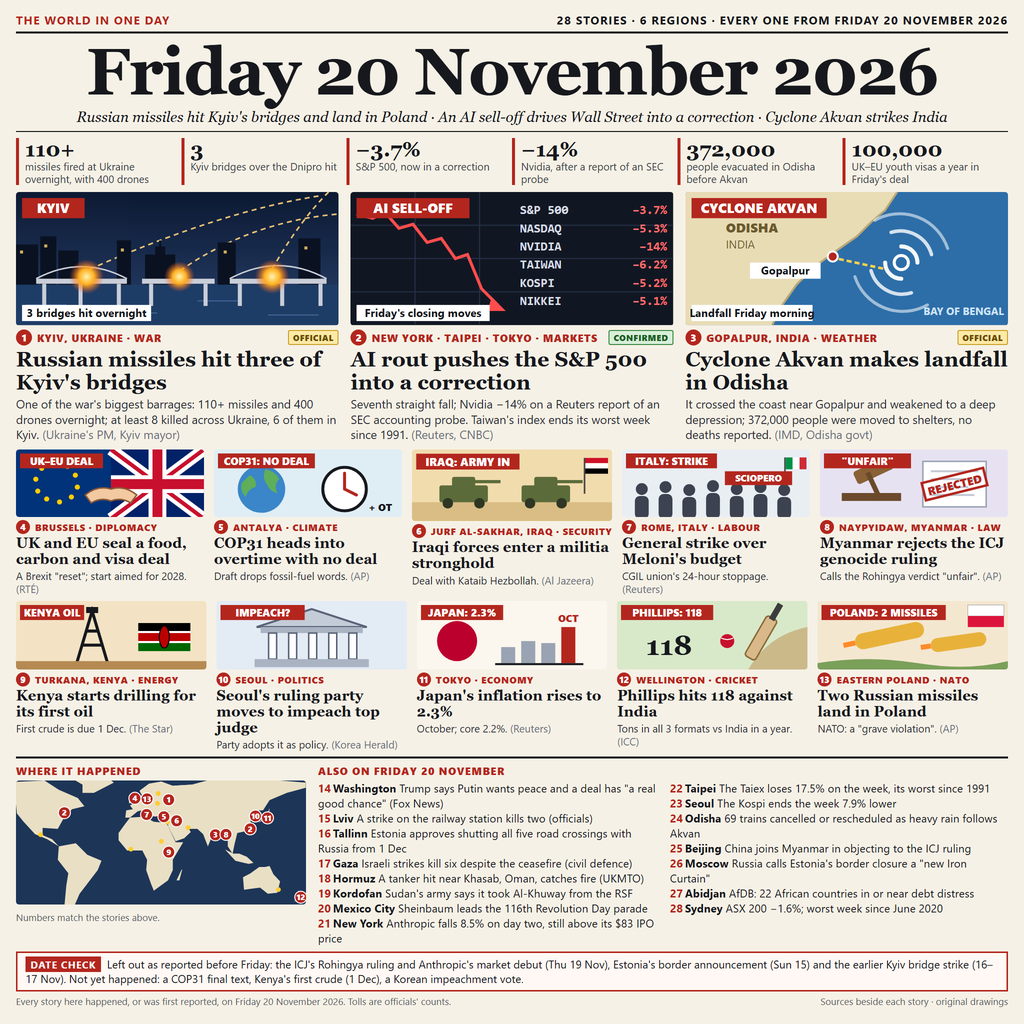
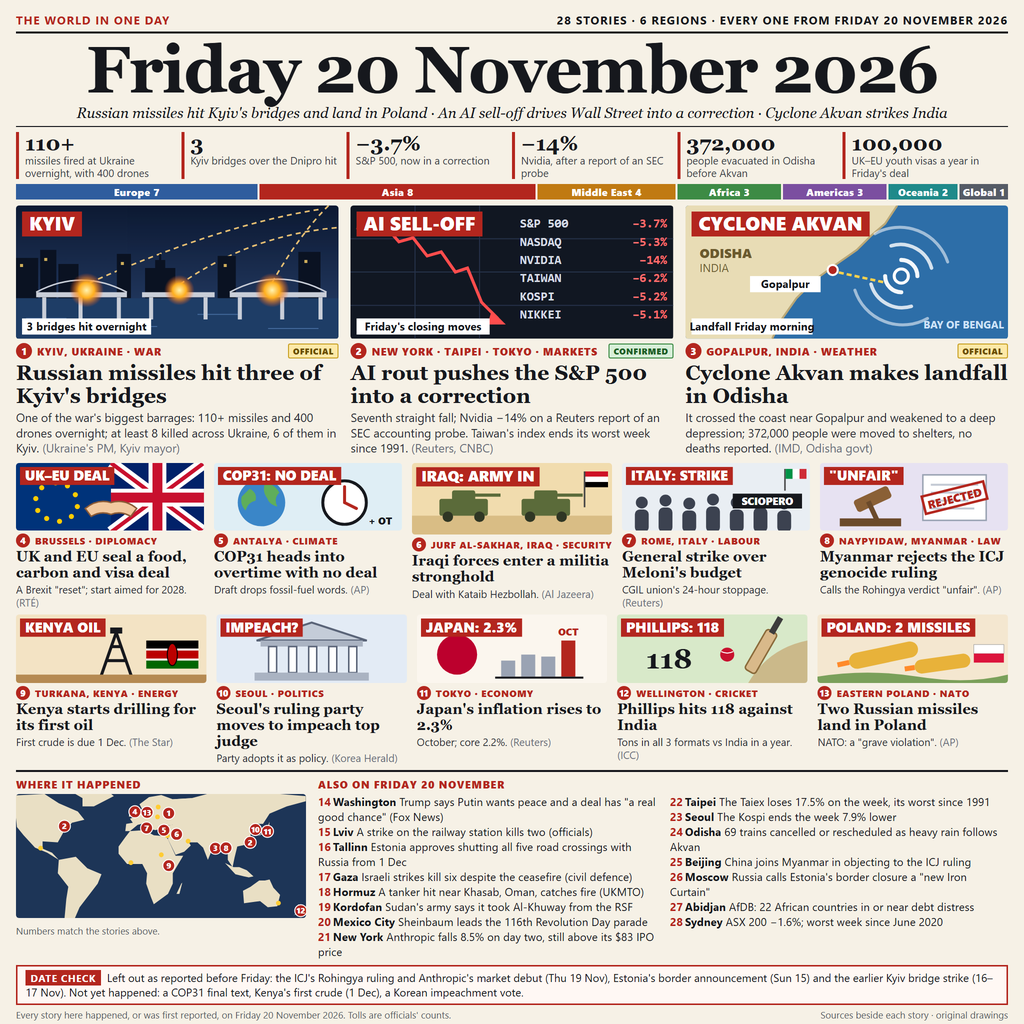
Bigger story labels, region strip, three more briefs (28 stories)

diff --git a/src/front.html b/src/front.html
@@ -16,14 +16,16 @@
     letter-spacing: .08em; text-transform: uppercase; border-bottom: 2px solid #16181d; padding-bottom: 4px; }
   .topbar .k { color: #b3261e; }
   h1 { font-family: Georgia, serif; font-weight: 700; font-size: 66px; line-height: 1; text-align: center;
-    letter-spacing: -1.5px; margin-top: 5px; white-space: nowrap; }
-  .deck { font-family: Georgia, serif; font-style: italic; font-size: 14.5px; text-align: center; margin: 4px 0 6px;
-    padding-bottom: 6px; border-bottom: 1px solid #16181d; }
+    letter-spacing: -1.5px; margin-top: 3px; white-space: nowrap; }
+  .deck { font-family: Georgia, serif; font-style: italic; font-size: 14.5px; text-align: center; margin: 2px 0 5px;
+    padding-bottom: 5px; border-bottom: 1px solid #16181d; }
   .nums { display: grid; grid-template-columns: repeat(6, 1fr); gap: 0; margin-bottom: 7px; }
   .nums div { border-left: 3px solid #b3261e; padding: 0 6px; }
   .nums b { display: block; font-family: Georgia, serif; font-size: 21px; line-height: 1.05; }
   .nums span { display: block; font-size: 10.5px; line-height: 1.2; color: #3b3f48; }
 
+  .regions { display: flex; gap: 2px; margin: -2px 0 6px; }
+  .regions span { color: #fff; font-size: 10px; font-weight: 800; text-align: center; padding: 1px 0; letter-spacing: .03em; }
   .leads { display: grid; grid-template-columns: repeat(3, 1fr); gap: 12px; margin-bottom: 7px; }
   .card svg { display: block; width: 100%; border-radius: 3px; }
   .kick { display: flex; align-items: center; gap: 5px; font-size: 10.5px; font-weight: 800; letter-spacing: .05em;
@@ -69,6 +71,11 @@
   <div><b>100,000</b><span>UK–EU youth visas a year in Friday's deal</span></div>
 </div>
 
+<div class="regions">
+  <span style="background:#2f5d9e;flex:7">Europe 7</span><span style="background:#b3261e;flex:8">Asia 8</span><span style="background:#c07a12;flex:4">Middle East 4</span>
+  <span style="background:#3d8b45;flex:3">Africa 3</span><span style="background:#7b4fa0;flex:3">Americas 3</span><span style="background:#1f8a8a;flex:2">Oceania 2</span><span style="background:#555b66;flex:1.4">Global 1</span>
+</div>
+
 <!-- ===================== THREE LEAD STORIES ===================== -->
 <div class="leads">
 
@@ -101,7 +108,7 @@
       </g>
       <g stroke="#c9ced8" stroke-width="1.5" fill="none"><path d="M20 86 Q 65 62 110 86"/><path d="M212 86 Q 260 60 308 86"/></g>
       <circle cx="70" cy="84" r="17" fill="url(#boom)"/><circle cx="162" cy="84" r="15" fill="url(#boom)"/><circle cx="254" cy="84" r="17" fill="url(#boom)"/>
-      <rect x="6" y="6" width="62" height="20" fill="#b3261e"/><text x="37" y="21" font-family="Segoe UI,Arial" font-weight="800" font-size="13.5" fill="#fff" text-anchor="middle">KYIV</text>
+      <text class="chip" x="6" y="6" data-s="19">KYIV</text>
       <rect x="6" y="112" width="128" height="16" fill="#fff"/><text x="70" y="124" font-family="Segoe UI,Arial" font-weight="700" font-size="11" fill="#16181d" text-anchor="middle">3 bridges hit overnight</text>
     </svg>
     <div class="kick"><span class="n">1</span>Kyiv, Ukraine · War<span class="tag t-off">OFFICIAL</span></div>
@@ -123,7 +130,7 @@
         <text x="168" y="94" fill="#d6dbe5">KOSPI</text><text x="314" y="94" fill="#ff6b6b" text-anchor="end">−5.2%</text>
         <text x="168" y="112" fill="#d6dbe5">NIKKEI</text><text x="314" y="112" fill="#ff6b6b" text-anchor="end">−5.1%</text>
       </g>
-      <rect x="6" y="6" width="112" height="20" fill="#b3261e"/><text x="62" y="21" font-family="Segoe UI,Arial" font-weight="800" font-size="13.5" fill="#fff" text-anchor="middle">AI SELL-OFF</text>
+      <text class="chip" x="6" y="6" data-s="19">AI SELL-OFF</text>
       <rect x="6" y="112" width="132" height="16" fill="#fff"/><text x="72" y="124" font-family="Segoe UI,Arial" font-weight="700" font-size="11" fill="#16181d" text-anchor="middle">Friday's closing moves</text>
     </svg>
     <div class="kick"><span class="n">2</span>New York · Taipei · Tokyo · Markets<span class="tag t-con">CONFIRMED</span></div>
@@ -137,8 +144,8 @@
       <!-- land: India's east coast -->
       <path d="M0 0 H210 L198 18 L184 30 L170 44 L150 58 L128 74 L110 92 L96 112 L86 132 H0 Z" fill="#e8dcb5"/>
       <path d="M210 0 L198 18 L184 30 L170 44 L150 58 L128 74 L110 92 L96 112 L86 132" fill="none" stroke="#b9a777" stroke-width="2"/>
-      <text x="40" y="40" font-family="Segoe UI,Arial" font-weight="800" font-size="13" fill="#6b5a2e">ODISHA</text>
-      <text x="40" y="56" font-family="Segoe UI,Arial" font-size="11" fill="#6b5a2e">INDIA</text>
+      <text x="14" y="52" font-family="Segoe UI,Arial" font-weight="800" font-size="13" fill="#6b5a2e">ODISHA</text>
+      <text x="14" y="66" font-family="Segoe UI,Arial" font-size="11" fill="#6b5a2e">INDIA</text>
       <text x="236" y="122" font-family="Segoe UI,Arial" font-weight="700" font-size="10.5" fill="#cfe3f7">BAY OF BENGAL</text>
       <!-- cyclone spiral -->
       <g transform="translate(214,70)" fill="none" stroke="#ffffff" stroke-linecap="round">
@@ -150,7 +157,7 @@
       <path d="M196 76 L150 66" stroke="#ffd24d" stroke-width="2.5" stroke-dasharray="5 3"/>
       <circle cx="146" cy="64" r="5" fill="#b3261e" stroke="#fff" stroke-width="2"/>
       <rect x="64" y="70" width="70" height="16" fill="#fff"/><text x="99" y="82" font-family="Segoe UI,Arial" font-weight="700" font-size="11" fill="#16181d" text-anchor="middle">Gopalpur</text>
-      <rect x="6" y="6" width="134" height="20" fill="#b3261e"/><text x="73" y="21" font-family="Segoe UI,Arial" font-weight="800" font-size="13.5" fill="#fff" text-anchor="middle">CYCLONE AKVAN</text>
+      <text class="chip" x="6" y="6" data-s="19">CYCLONE AKVAN</text>
       <rect x="6" y="112" width="120" height="16" fill="#fff"/><text x="66" y="124" font-family="Segoe UI,Arial" font-weight="700" font-size="11" fill="#16181d" text-anchor="middle">Landfall Friday morning</text>
     </svg>
     <div class="kick"><span class="n">3</span>Gopalpur, India · Weather<span class="tag t-off">OFFICIAL</span></div>
@@ -165,10 +172,10 @@
   <div class="card small">
     <svg viewBox="0 0 190 68">
       <rect width="190" height="70" fill="#00337a"/>
-      <g fill="#ffcc00"><circle cx="40" cy="14" r="2.6"/><circle cx="52" cy="17" r="2.6"/><circle cx="60" cy="26" r="2.6"/><circle cx="62" cy="38" r="2.6"/><circle cx="56" cy="48" r="2.6"/><circle cx="44" cy="53" r="2.6"/><circle cx="31" cy="50" r="2.6"/><circle cx="22" cy="42" r="2.6"/><circle cx="20" cy="30" r="2.6"/><circle cx="26" cy="19" r="2.6"/></g>
+      <g fill="#ffcc00" transform="translate(0,6)"><circle cx="40" cy="14" r="2.6"/><circle cx="52" cy="17" r="2.6"/><circle cx="60" cy="26" r="2.6"/><circle cx="62" cy="38" r="2.6"/><circle cx="56" cy="48" r="2.6"/><circle cx="44" cy="53" r="2.6"/><circle cx="31" cy="50" r="2.6"/><circle cx="22" cy="42" r="2.6"/><circle cx="20" cy="30" r="2.6"/><circle cx="26" cy="19" r="2.6"/></g>
       <g transform="translate(96,0)"><rect width="94" height="70" fill="#012169"/><path d="M0 0 L94 70 M94 0 L0 70" stroke="#fff" stroke-width="12"/><path d="M0 0 L94 70 M94 0 L0 70" stroke="#c8102e" stroke-width="4"/><path d="M47 0 V70 M0 35 H94" stroke="#fff" stroke-width="18"/><path d="M47 0 V70 M0 35 H94" stroke="#c8102e" stroke-width="10"/></g>
       <path d="M70 46 q12 -10 26 -6 q14 -4 26 6 l-6 8 q-10 -6 -20 -2 q-10 -4 -20 2z" fill="#f2c9a0" stroke="#8a5a36" stroke-width="1.5"/>
-      <rect x="4" y="4" width="84" height="15" fill="#b3261e"/><text x="46" y="15.5" font-family="Segoe UI,Arial" font-weight="800" font-size="10.5" fill="#fff" text-anchor="middle">UK–EU DEAL</text>
+      <text class="chip" x="4" y="4" data-s="14">UK–EU DEAL</text>
     </svg>
     <div class="kick"><span class="n">4</span>Brussels · Diplomacy</div>
     <h3>UK and EU seal a food, carbon and visa deal</h3>
@@ -181,7 +188,7 @@
       <circle cx="48" cy="40" r="24" fill="#3a86c8"/><path d="M36 26 q8 4 6 12 q-8 2 -10 10 q-6 -6 -4 -14z M52 20 q10 2 14 10 q-6 6 -2 14 q-8 -2 -10 -8 q-6 -8 -2 -16z" fill="#5fae5a"/>
       <circle cx="132" cy="40" r="22" fill="#fff" stroke="#16181d" stroke-width="3"/><path d="M132 40 V24 M132 40 L144 46" stroke="#b3261e" stroke-width="3" stroke-linecap="round"/>
       <text x="168" y="62" font-family="Segoe UI,Arial" font-weight="800" font-size="10" fill="#16181d" text-anchor="middle">+ OT</text>
-      <rect x="4" y="4" width="98" height="15" fill="#b3261e"/><text x="53" y="15.5" font-family="Segoe UI,Arial" font-weight="800" font-size="10.5" fill="#fff" text-anchor="middle">COP31: NO DEAL</text>
+      <text class="chip" x="4" y="4" data-s="14">COP31: NO DEAL</text>
     </svg>
     <div class="kick"><span class="n">5</span>Antalya · Climate</div>
     <h3>COP31 heads into overtime with no deal</h3>
@@ -195,7 +202,7 @@
       <rect x="104" y="34" width="46" height="16" rx="2"/><rect x="116" y="26" width="22" height="10" rx="2"/><rect x="136" y="29" width="26" height="3"/></g>
       <g fill="#2f3624"><circle cx="34" cy="51" r="5"/><circle cx="64" cy="51" r="5"/><circle cx="112" cy="51" r="5"/><circle cx="142" cy="51" r="5"/></g>
       <g transform="translate(164,8)"><rect width="22" height="5" fill="#ce1126"/><rect y="5" width="22" height="5" fill="#fff"/><rect y="10" width="22" height="5" fill="#000"/><rect x="-1" y="0" width="1.5" height="34" fill="#444"/></g>
-      <rect x="4" y="4" width="98" height="15" fill="#b3261e"/><text x="53" y="15.5" font-family="Segoe UI,Arial" font-weight="800" font-size="10.5" fill="#fff" text-anchor="middle">IRAQ: ARMY IN</text>
+      <text class="chip" x="4" y="4" data-s="14">IRAQ: ARMY IN</text>
     </svg>
     <div class="kick"><span class="n">6</span>Jurf al-Sakhar, Iraq · Security</div>
     <h3>Iraqi forces enter a militia stronghold</h3>
@@ -214,9 +221,9 @@
         <circle cx="140" cy="38" r="6"/><rect x="133" y="45" width="14" height="25" rx="5"/>
         <circle cx="164" cy="41" r="6"/><rect x="157" y="48" width="14" height="22" rx="5"/>
       </g>
-      <g><rect x="164" y="8" width="1.5" height="30" fill="#444"/><rect x="165.5" y="8" width="7" height="12" fill="#009246"/><rect x="172.5" y="8" width="7" height="12" fill="#fff"/><rect x="179.5" y="8" width="7" height="12" fill="#ce2b37"/></g>
-      <rect x="104" y="22" width="68" height="14" fill="#b3261e"/><text x="138" y="32.5" font-family="Segoe UI,Arial" font-weight="800" font-size="9.5" fill="#fff" text-anchor="middle">SCIOPERO</text>
-      <rect x="4" y="4" width="92" height="15" fill="#b3261e"/><text x="50" y="15.5" font-family="Segoe UI,Arial" font-weight="800" font-size="10.5" fill="#fff" text-anchor="middle">ITALY: STRIKE</text>
+      <g><rect x="164" y="6" width="1.5" height="22" fill="#444"/><rect x="165.5" y="6" width="7" height="10" fill="#009246"/><rect x="172.5" y="6" width="7" height="10" fill="#fff"/><rect x="179.5" y="6" width="7" height="10" fill="#ce2b37"/></g>
+      <rect x="112" y="31" width="70" height="15" fill="#16181d"/><text x="147" y="42.5" font-family="Segoe UI,Arial" font-weight="800" font-size="10.5" fill="#fff" text-anchor="middle">SCIOPERO</text>
+      <text class="chip" x="4" y="4" data-s="14">ITALY: STRIKE</text>
     </svg>
     <div class="kick"><span class="n">7</span>Rome, Italy · Labour</div>
     <h3>General strike over Meloni's budget</h3>
@@ -226,11 +233,11 @@
   <div class="card small">
     <svg viewBox="0 0 190 68">
       <rect width="190" height="70" fill="#e7e2f2"/>
-      <rect x="22" y="44" width="60" height="8" fill="#6b4a2b"/><rect x="34" y="14" width="40" height="14" rx="3" fill="#8a6036" transform="rotate(-25 54 21)"/><rect x="52" y="22" width="5" height="30" fill="#6b4a2b" transform="rotate(-25 54 37)"/>
+      <rect x="20" y="56" width="62" height="8" fill="#6b4a2b"/><rect x="34" y="30" width="38" height="13" rx="3" fill="#8a6036" transform="rotate(-25 53 36)"/><rect x="51" y="38" width="5" height="22" fill="#6b4a2b" transform="rotate(-25 53 49)"/>
       <rect x="104" y="12" width="64" height="46" fill="#fff" stroke="#9aa3b3" stroke-width="1.5"/>
       <g stroke="#c3c9d4" stroke-width="2"><path d="M112 22 H160 M112 30 H160 M112 38 H150 M112 46 H156"/></g>
       <g transform="rotate(-14 136 35)"><rect x="104" y="26" width="64" height="18" fill="none" stroke="#b3261e" stroke-width="2.5"/><text x="136" y="40" font-family="Segoe UI,Arial" font-weight="900" font-size="11.5" fill="#b3261e" text-anchor="middle">REJECTED</text></g>
-      <rect x="4" y="4" width="88" height="15" fill="#b3261e"/><text x="48" y="15.5" font-family="Segoe UI,Arial" font-weight="800" font-size="10.5" fill="#fff" text-anchor="middle">"UNFAIR"</text>
+      <text class="chip" x="4" y="4" data-s="14">"UNFAIR"</text>
     </svg>
     <div class="kick"><span class="n">8</span>Naypyidaw, Myanmar · Law</div>
     <h3>Myanmar rejects the ICJ genocide ruling</h3>
@@ -244,11 +251,11 @@
     <svg viewBox="0 0 190 68">
       <rect width="190" height="70" fill="#f3e3c4"/>
       
-      <path d="M60 64 L76 10 L92 64 Z M66 44 H86 M70 30 H82" fill="none" stroke="#16181d" stroke-width="3"/>
-      <rect x="70" y="6" width="12" height="6" fill="#16181d"/>
+      <path d="M84 64 L100 18 L116 64 Z M90 46 H110 M94 32 H106" fill="none" stroke="#16181d" stroke-width="3"/>
+      <rect x="94" y="13" width="12" height="6" fill="#16181d"/>
       <rect y="60" width="190" height="10" fill="#b58a52"/>
-      <g transform="translate(122,22)"><rect width="52" height="8" fill="#000"/><rect y="8" width="52" height="2" fill="#fff"/><rect y="10" width="52" height="8" fill="#bb0000"/><rect y="18" width="52" height="2" fill="#fff"/><rect y="20" width="52" height="8" fill="#006600"/><ellipse cx="26" cy="14" rx="5" ry="11" fill="#bb0000" stroke="#000" stroke-width="1"/></g>
-      <rect x="4" y="4" width="64" height="15" fill="#b3261e"/><text x="36" y="15.5" font-family="Segoe UI,Arial" font-weight="800" font-size="10.5" fill="#fff" text-anchor="middle">KENYA OIL</text>
+      <g transform="translate(130,26)"><rect width="52" height="8" fill="#000"/><rect y="8" width="52" height="2" fill="#fff"/><rect y="10" width="52" height="8" fill="#bb0000"/><rect y="18" width="52" height="2" fill="#fff"/><rect y="20" width="52" height="8" fill="#006600"/><ellipse cx="26" cy="14" rx="5" ry="11" fill="#bb0000" stroke="#000" stroke-width="1"/></g>
+      <text class="chip" x="4" y="4" data-s="14">KENYA OIL</text>
     </svg>
     <div class="kick"><span class="n">9</span>Turkana, Kenya · Energy</div>
     <h3>Kenya starts drilling for its first oil</h3>
@@ -262,7 +269,7 @@
       <rect x="44" y="26" width="102" height="6" fill="#aab3c2"/>
       <g fill="#fff" stroke="#5a6478" stroke-width="1.5"><rect x="52" y="32" width="8" height="26"/><rect x="72" y="32" width="8" height="26"/><rect x="92" y="32" width="8" height="26"/><rect x="112" y="32" width="8" height="26"/><rect x="132" y="32" width="8" height="26"/></g>
       <rect x="38" y="58" width="114" height="8" fill="#aab3c2"/>
-      <rect x="4" y="4" width="84" height="15" fill="#b3261e"/><text x="46" y="15.5" font-family="Segoe UI,Arial" font-weight="800" font-size="10.5" fill="#fff" text-anchor="middle">IMPEACH?</text>
+      <text class="chip" x="4" y="4" data-s="14">IMPEACH?</text>
     </svg>
     <div class="kick"><span class="n">10</span>Seoul · Politics</div>
     <h3>Seoul's ruling party moves to impeach top judge</h3>
@@ -277,7 +284,7 @@
       <rect x="144" y="26" width="14" height="36" fill="#b3261e"/>
       <text x="151" y="21" font-family="Segoe UI,Arial" font-weight="800" font-size="10" fill="#b3261e" text-anchor="middle">OCT</text>
       <rect x="78" y="62" width="88" height="2" fill="#16181d"/>
-      <rect x="4" y="4" width="82" height="15" fill="#b3261e"/><text x="45" y="15.5" font-family="Segoe UI,Arial" font-weight="800" font-size="10.5" fill="#fff" text-anchor="middle">JAPAN: 2.3%</text>
+      <text class="chip" x="4" y="4" data-s="14">JAPAN: 2.3%</text>
     </svg>
     <div class="kick"><span class="n">11</span>Tokyo · Economy</div>
     <h3>Japan's inflation rises to 2.3%</h3>
@@ -291,7 +298,7 @@
       <g transform="translate(150,14) rotate(30)"><rect x="0" y="0" width="12" height="46" rx="3" fill="#d9b98a" stroke="#8a6a3a" stroke-width="1.5"/><rect x="3" y="-16" width="6" height="18" fill="#3c3c3c"/></g>
       <circle cx="110" cy="40" r="7" fill="#c8102e"/><path d="M104 37 q6 3 12 0" stroke="#fff" stroke-width="1" fill="none"/>
       <text x="52" y="54" font-family="Georgia" font-weight="700" font-size="28" fill="#16181d" text-anchor="middle">118</text>
-      <rect x="4" y="4" width="92" height="15" fill="#b3261e"/><text x="50" y="15.5" font-family="Segoe UI,Arial" font-weight="800" font-size="10.5" fill="#fff" text-anchor="middle">PHILLIPS: 118</text>
+      <text class="chip" x="4" y="4" data-s="14">PHILLIPS: 118</text>
     </svg>
     <div class="kick"><span class="n">12</span>Wellington · Cricket</div>
     <h3>Phillips hits 118 against India</h3>
@@ -301,10 +308,10 @@
   <div class="card small">
     <svg viewBox="0 0 190 68">
       <rect width="190" height="70" fill="#f4e7d0"/>
-      <rect x="150" y="4" width="36" height="11" fill="#fff" stroke="#999" stroke-width=".5"/><rect x="150" y="15" width="36" height="11" fill="#dc143c"/>
-      <g transform="translate(36,34) rotate(-12)"><rect width="70" height="16" rx="8" fill="#e8b23a"/><rect x="-14" y="8" width="0" height="0"/><path d="M0 8 h-12" stroke="#ff8a2a" stroke-width="5"/></g>
-      <g transform="translate(112,38) rotate(-8)"><rect width="56" height="14" rx="7" fill="#e8b23a"/><path d="M0 7 h-10" stroke="#ff8a2a" stroke-width="5"/></g>
-      <rect x="4" y="4" width="124" height="15" fill="#b3261e"/><text x="66" y="15.5" font-family="Segoe UI,Arial" font-weight="800" font-size="10.5" fill="#fff" text-anchor="middle">POLAND: 2 MISSILES</text>
+      <rect x="156" y="30" width="30" height="9" fill="#fff" stroke="#999" stroke-width=".5"/><rect x="156" y="39" width="30" height="9" fill="#dc143c"/>
+      <g transform="translate(30,40) rotate(-12)"><rect width="70" height="16" rx="8" fill="#e8b23a"/><rect x="-14" y="8" width="0" height="0"/><path d="M0 8 h-12" stroke="#ff8a2a" stroke-width="5"/></g>
+      <g transform="translate(96,46) rotate(-8)"><rect width="56" height="14" rx="7" fill="#e8b23a"/><path d="M0 7 h-10" stroke="#ff8a2a" stroke-width="5"/></g>
+      <text class="chip" x="4" y="4" data-s="14">POLAND: 2 MISSILES</text>
       <path d="M0 62 Q 50 54 100 62 T 190 60 V70 H0Z" fill="#7aa05a"/>
     </svg>
     <div class="kick"><span class="n">13</span>Eastern Poland · NATO</div>
@@ -368,6 +375,17 @@
     [[172,-35],[178,-38],[174,-41],[167,-46],[171,-44]]
   ];
   const NS = 'http://www.w3.org/2000/svg';
+  // Story labels: big white capitals on a red chip sized to the text, so they read at thumbnail size.
+  for (const t of document.querySelectorAll('text.chip')) {
+    const x = +t.getAttribute('x'), y = +t.getAttribute('y'), fs = +t.dataset.s, pad = Math.round(fs * 0.35);
+    Object.assign(t.style, { fontFamily: 'Segoe UI, Arial', fontWeight: 800, fontSize: fs + 'px', fill: '#fff' });
+    t.setAttribute('x', x + pad); t.setAttribute('y', y + fs * 0.98);
+    const w = t.getComputedTextLength();
+    const r = document.createElementNS(NS, 'rect');
+    r.setAttribute('x', x); r.setAttribute('y', y); r.setAttribute('width', w + 2 * pad); r.setAttribute('height', fs * 1.3);
+    r.setAttribute('fill', '#b3261e');
+    t.parentNode.insertBefore(r, t);
+  }
   const land = document.getElementById('land');
   for (const r of rings) {
     const el = document.createElementNS(NS, 'polygon');
